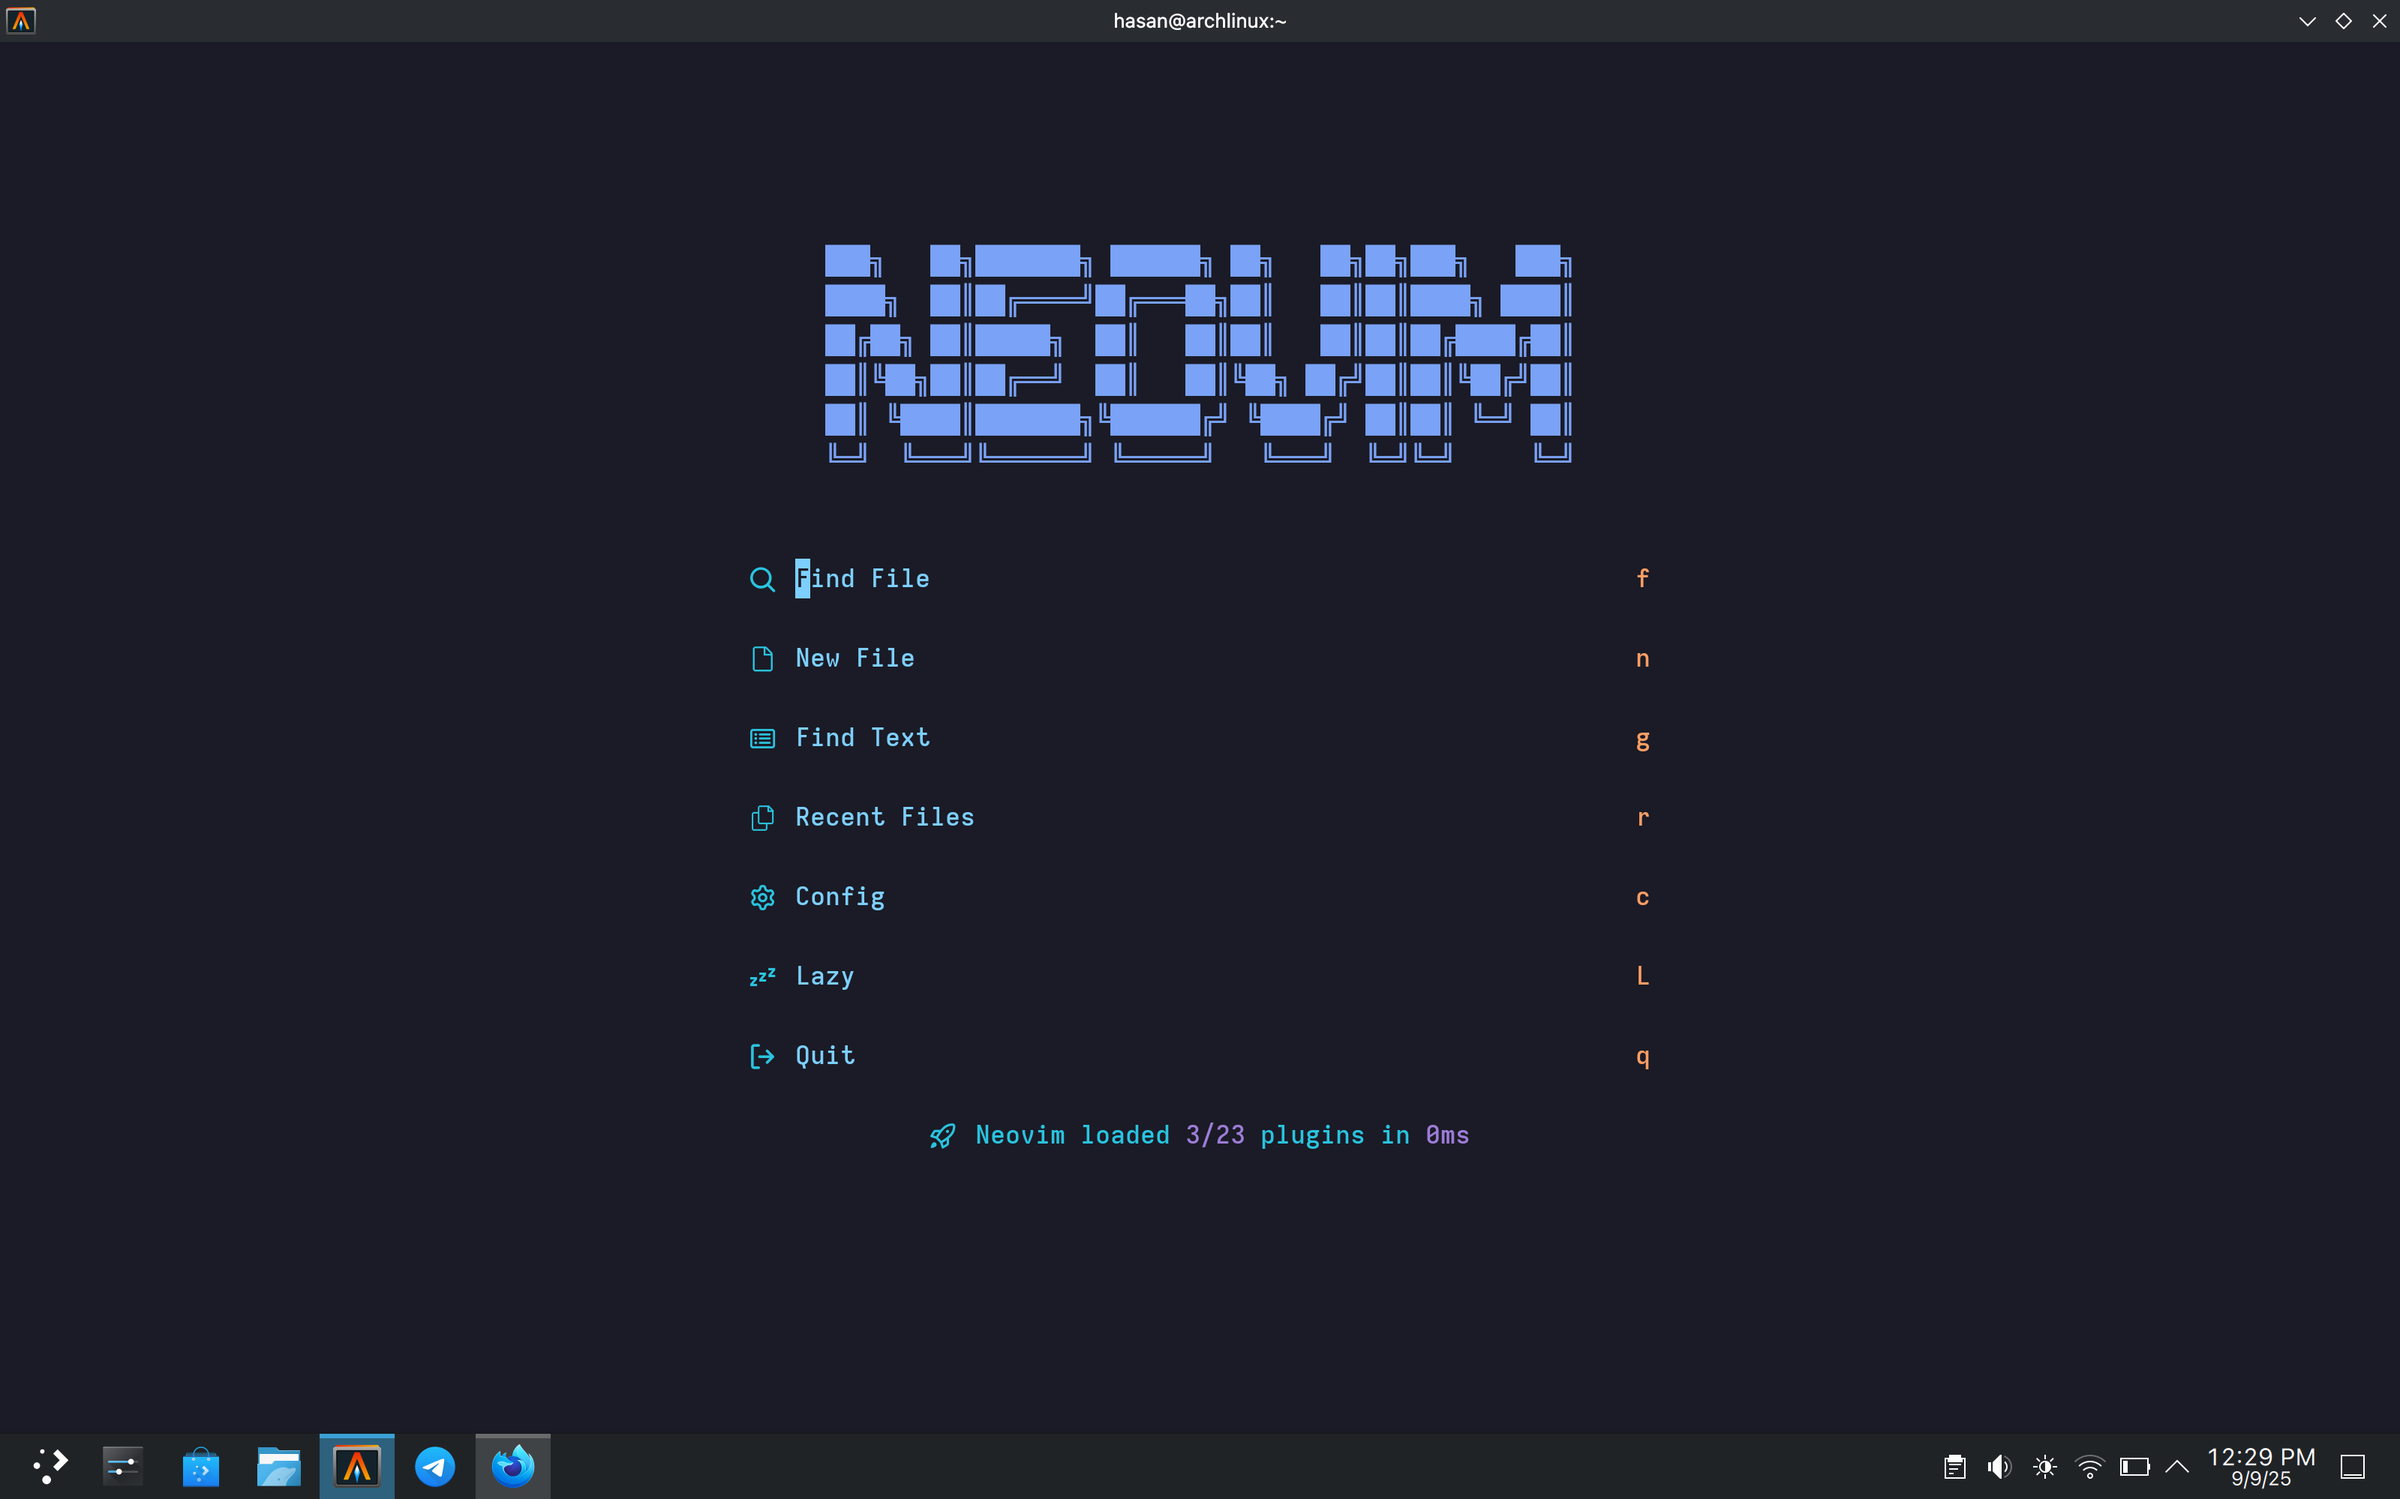
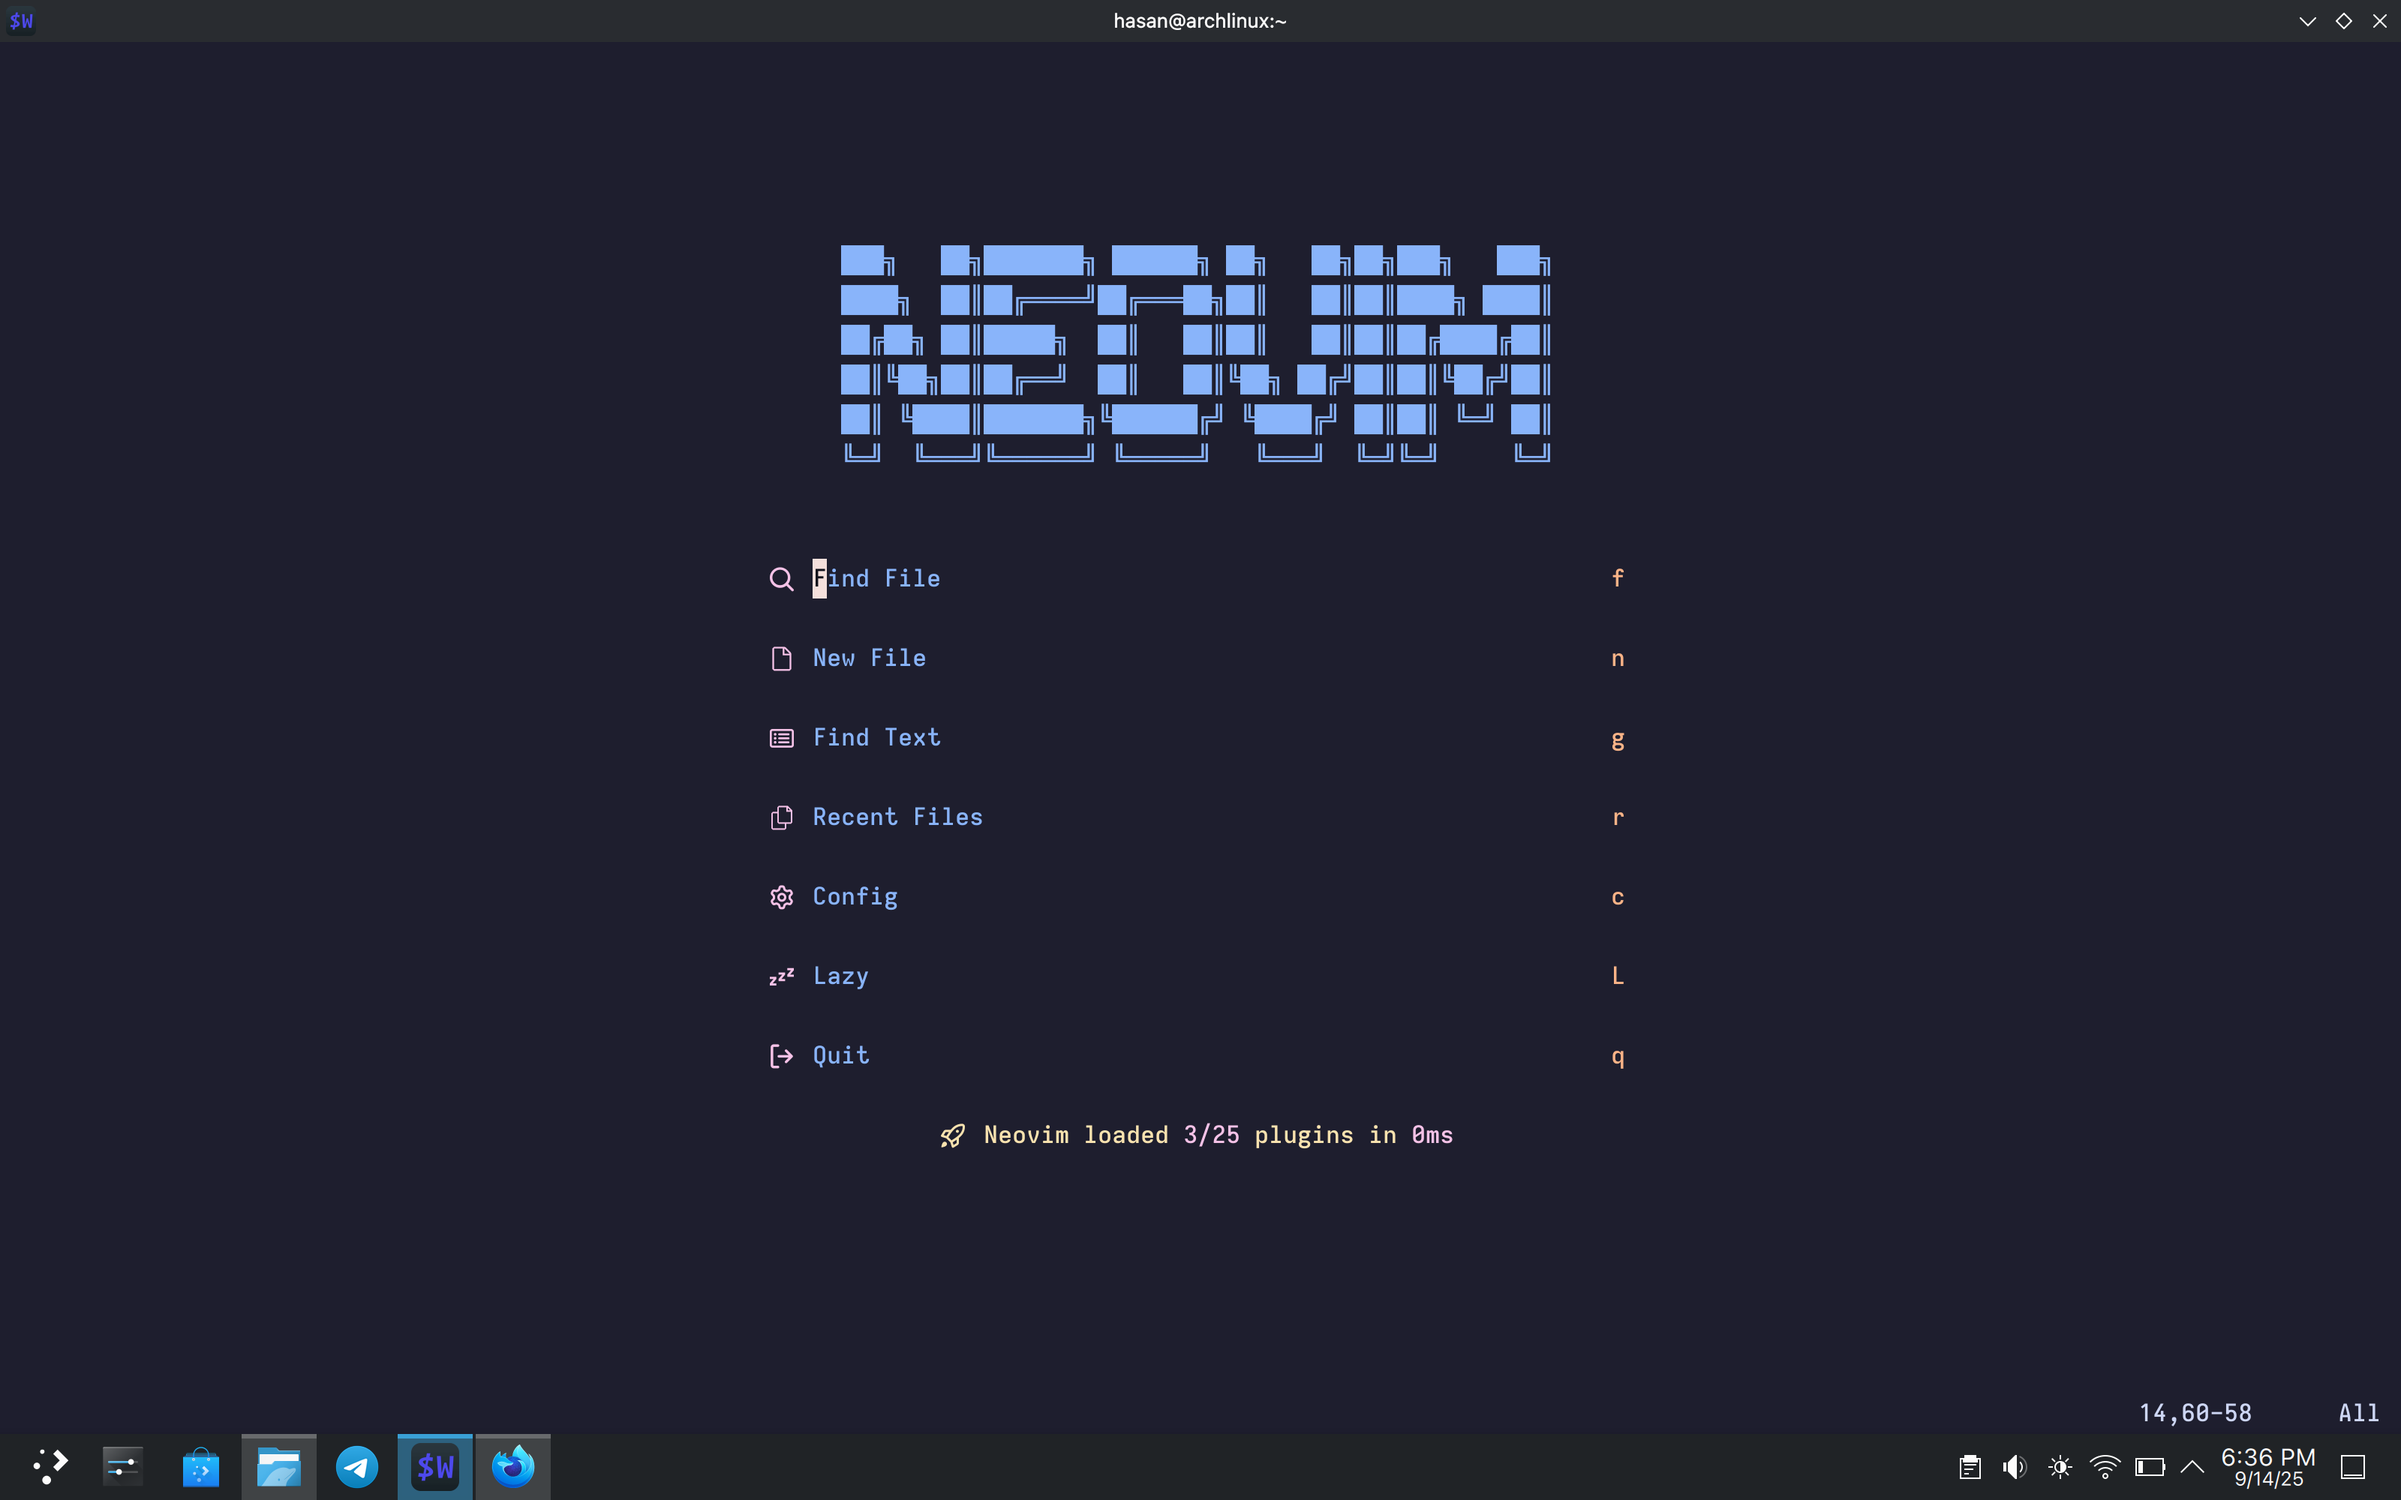
updated images according to theme

diff --git a/README.md b/README.md
@@ -9,8 +9,6 @@ My Personal neovim config with great customization.
 
 <img src="./images/img_3.png">
 
-<img src="./images/img_4.png">
-
 ## Steps to install
 
 Copy <code>lua</code>, <code>.luarc.json</code> and <code>init.lua</code> to <code>"$HOME/.config/nvim"</code>
